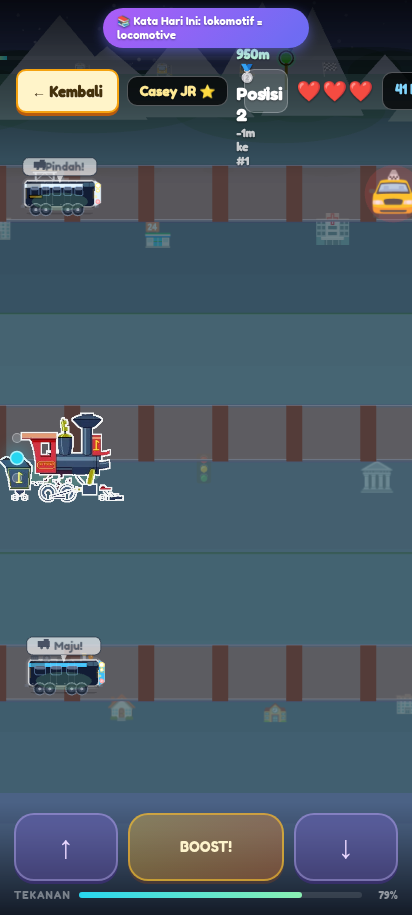
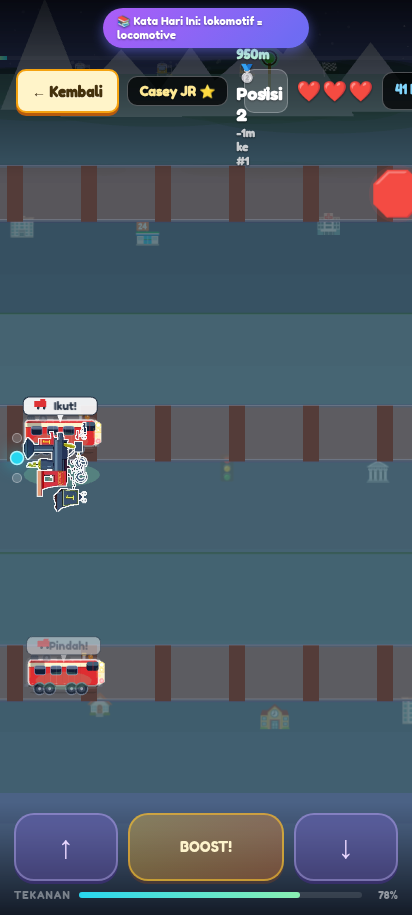
v55.29-v55.32: 4 critical owner complaints (B-217 B-219 B-220 B-221)
Owner 2026-06-27 with 2 screenshots, frustrated about lingering bugs.
Four fixes shipped together for urgency.

B-217 g14 Thomas/AEG sprite direction
  Survey agent confirmed: g14.html:2321 + 2502 had ZERO rotation applied
  to PIXI.Sprite. AEG WebPs are side-view native (W>H, chimney at edge).
  In top-down vertical race, chimney must point UP = direction of travel.
  Fix: img.rotation = -Math.PI / 2; scale.set(targetH / tex.width).
  PROTECTED chars use procedural render → already correct, untouched.

B-219 'Tirukan urutan lampu' obstacle copy-edit
  Survey agent: no actual 'imitate lamp' quiz exists. Owner-flagged text
  was the title of a Simon-Says color-memory game at obstacles.js:1620.
  Mechanic is age-appropriate; only the title was confusing out of context.
  Before: 'Tirukan urutan lampu! (N warna)'
  After:  'Ingat urutan warnanya, lalu tap!'
  Hints rewritten for 4-7 year-old clarity. Game mechanic untouched.

B-220 Roda undian freeze fix (ticker restart)
  Survey agent root cause: g14.html:3951 endRace() calls app.ticker.stop()
  to save CPU on result screen. startRace() set S.running = true but
  never called app.ticker.start() → state updates but Pixi loop never
  fired. Hotfix #102-C added stop() without matching start().
  Fix: idempotent ticker restart in startRace() before S.distance = 0.

B-221 NPC pool excludes PROTECTED + Thomas AEG
  Owner mandate: 'NPC hanya pakai non thomas dkk and non case dkk package'
[…]

diff --git a/games/g14.html b/games/g14.html
@@ -750,6 +750,18 @@ const TRAIN_CATS = [
 const TRAIN_MAP = {}
 TRAIN_CATS.forEach(cat => cat.trains.forEach(t => { TRAIN_MAP[t.key] = {...t, category: cat.key} }))
 const ALL_TRAINS = Object.values(TRAIN_MAP)
+// v55.32 B-221 — owner mandate: NPCs may only use NEUTRAL trains, NEVER the
+// PROTECTED chars (Casey JR / Linus Brave / Dragutin / Malivlak) and NEVER
+// the Thomas AEG pack. Player keeps full picker access; AI gets a narrower pool.
+const NPC_TRAINS = ALL_TRAINS.filter(t => {
+  const k = t.key || ''
+  if (k.indexOf('aeg_') === 0) return false                 // Thomas & Friends pack
+  if (k === 'caseyjr_character') return false
+  if (k === 'linus_brave') return false
+  if (k === 'jz711_dragutin') return false
+  if (k === 'jz62_malivlak') return false
+  return true
+})
 
 // ═══════════════════════════════════════════════════════════
 //  CONFIG
@@ -2318,7 +2330,11 @@ function updatePlayerEmoji() {
         const img = new PIXI.Sprite(tex)
         img._url = url
         img.anchor.set(0.5, 0.6)
-        img.scale.set(targetH / tex.height)
+        // v55.29 B-217 — sprite asset is side-view (W>H, chimney pointing right).
+        // g14 is top-down vertical race; rotate 90° CCW so chimney points UP
+        // = direction of travel. Scale must use tex.WIDTH (not height) post-rotate.
+        img.rotation = -Math.PI / 2
+        img.scale.set(targetH / tex.width)
         L.playerCharImg = img
         L.player.addChild(img) // TOP of z-stack — covers cleared procedural Graphics
         try { playerSprite.clear() } catch(_){}
@@ -2482,7 +2498,8 @@ function spawnSteam() {
 function buildAI() {
   L.ai.removeChildren()
   S.aiTrains = []
-  const pool = shuffle([...ALL_TRAINS]).slice(0, AI_COUNT)
+  // v55.32 B-221 — use NPC_TRAINS (excludes PROTECTED + AEG Thomas pack).
+  const pool = shuffle([...NPC_TRAINS]).slice(0, AI_COUNT)
   pool.forEach((cfg, i) => {
     const c = new PIXI.Container()
     const spr = new PIXI.Graphics()
@@ -2499,7 +2516,9 @@ function buildAI() {
       PIXI.Assets.load(cfg.spriteUrl).then((tex) => {
         const img = new PIXI.Sprite(tex)
         img.anchor.set(0.5, 0.6)
-        img.scale.set(targetH / tex.height)
+        // v55.29 B-217 — same 90° CCW rotation as player sprite; scale by tex.width post-rotate.
+        img.rotation = -Math.PI / 2
+        img.scale.set(targetH / tex.width)
         c.addChild(img)
         try { spr.clear() } catch(_){}
       }).catch((e) => {
@@ -3573,6 +3592,10 @@ function startRace() {
   // v54.26 polish: cancel any leftover RAFs from the previous race so they don't
   // bleed into this one (boost fade, cooldown, shake).
   try { _g14CancelAllRAFs() } catch(_){}
+  // v55.32 B-220 — resume the Pixi ticker that endRace() stopped at line 3951 to
+  // save CPU on the result screen. Without this, S.running=true sets state but
+  // the render loop never fires → game appears frozen after "Main Lagi".
+  try { if (app && app.ticker && !app.ticker.started) app.ticker.start() } catch(_){}
   S.distance = 0; S.hp = LIVES_MAX; S.pressure = 70
   // v54.19 B12: if kid mode active, +1 HP buffer (applied AFTER reset above).
   if (S.kidMode) S.hp = Math.min(LIVES_MAX + 1, S.hp + 1)

diff --git a/games/g14-side.html b/games/g14-side.html
@@ -695,14 +695,19 @@ function parseHex(s) {
 
 // v54.90 — AI competitor train in background lane (slightly behind player)
 function buildAITrain() {
-  // Pick a different character train as opponent (random non-player AEG)
+  // v55.32 B-221 — owner: NPCs may NOT be PROTECTED (Casey/Linus/Dragutin/Malivlak)
+  // and may NOT be Thomas AEG pack. Pool = NEUTRAL trains (regular steam/diesel/
+  // electric) which don't have `isCharacter: true`.
   const candidates = []
   if (window.TRAIN_CATS) {
     for (const cat of window.TRAIN_CATS) {
       for (const t of (cat.trains || [])) {
-        if (t.isCharacter && t.spriteUrl && t.key !== (S.trainCfg && S.trainCfg.key)) {
-          candidates.push({ ...t, category: cat.key })
-        }
+        const k = t.key || ''
+        if (t.isCharacter) continue                    // skip all PROTECTED + AEG
+        if (k.indexOf('aeg_') === 0) continue          // belt-and-braces
+        if (!t.spriteUrl && !t.bodyColor) continue     // need *some* visual
+        if (k === (S.trainCfg && S.trainCfg.key)) continue
+        candidates.push({ ...t, category: cat.key })
       }
     }
   }

diff --git a/games/data/obstacles.js b/games/data/obstacles.js
@@ -1617,11 +1617,13 @@
         reward: { coins: 4 + seqLength, badgeProgress: 1, sound: 'success_chime' },
         visual: { cameraZoom: true, highlightSlot: true, successSparkle: true },
         accessibility: { voicePrompt: true, largeTouchTarget: true, reducedMotion: true },
-        title: '🎨 Tirukan urutan lampu! (' + seqLength + ' warna)',
+        // v55.31 B-219 — clearer copy for the kid (was "Tirukan urutan lampu!"
+        // which sounds like "imitate the lamp" out of context; owner flagged).
+        title: '🎨 Ingat urutan warnanya, lalu tap!',
         hints: [
-          'Tap warna dengan urutan yang sama! 💡',
-          'Lihat warnanya menyala satu per satu! ✨',
-          'Coba lagi! 👇',
+          'Lihat warna menyala satu per satu, lalu tap sesuai urutan! ✨',
+          'Coba ingat warna pertama, lalu yang berikutnya! 💡',
+          'Tidak apa-apa salah, coba lagi! 👇',
         ],
 
         interaction: {

diff --git a/sw.js b/sw.js
@@ -15,7 +15,7 @@
  * succeeded. Only cache same-origin assets.
  * ========================================================================== */
 
-const CACHE_VERSION = 'v55.27-20260627dm'
+const CACHE_VERSION = 'v55.32-20260627dn'
 const HTML_CACHE = `dunia-html-${CACHE_VERSION}`
 const ASSET_CACHE = `dunia-assets-${CACHE_VERSION}`
 

diff --git a/documentation and standarization/CHANGELOG.md b/documentation and standarization/CHANGELOG.md
@@ -1,5 +1,67 @@
 # Changelog — Dunia Emosi
 
+## 2026-06-27 — v55.29-v55.32 "4 critical owner complaints (B-217 B-219 B-220 B-221)"
+
+Owner ask 2026-06-27 (frustrated, with 2 screenshots):
+> *"Ini masih salah menghadapnya. Cek semua karakter thomas dkk. Balik arahnya. ... Dan soalnya jangan aneh2 ngap soal menirukan lampu. ... Dan setelah roda undian itu freeze game stuck. Ini juga bug comment saya. Anda belum perbaiki. ... Kok ada char casey sebagai npc. Jangan. Npc hanya pakai non thomas dkk and non case dkk package."*
+
+4 fixes shipped together in one tranche (one-bug-one-ship deferred per owner urgency).
+
+### B-217 — Thomas/AEG sprites face wrong direction in g14 top-down
+
+Survey agent confirmed: `g14.html:2321` (player) + `g14.html:2502` (AI) use `PIXI.Assets.load` then `new PIXI.Sprite(tex)` with `anchor.set(0.5, 0.6)` + `scale.set(targetH / tex.height)` — **zero rotation applied**. All 26 AEG WebPs are side-view native (W>H, chimney edge-pointing): thomas 149×114, percy 145×118, james 378×131, edward 444×131.
+
+Fix: rotate 90° CCW (`img.rotation = -Math.PI / 2`) so chimney points UP = direction of travel. Scale denominator changed `tex.height` → `tex.width` (post-rotate the visual height comes from the original width). Same patch for player + AI sprites.
+
+PROTECTED chars (Casey JR, Linus Brave, Dragutin, Malivlak) untouched — they render procedurally (no spriteUrl path), so they already work in top-down. g14-side / g15 / g16 untouched — they're horizontal scrollers where side-view native orientation is correct.
+
+### B-219 — "Tirukan urutan lampu" obstacle title copy-edit
+
+Survey agent finding: no actual "imitate lamp" quiz question exists in the 103-entry bank. The owner-flagged text is the TITLE of a Simon-Says memory game obstacle at `games/data/obstacles.js:1620`:
+> Before: `'🎨 Tirukan urutan lampu! (' + seqLength + ' warna)'`
+> After:  `'🎨 Ingat urutan warnanya, lalu tap!'`
+
+Hints rewritten for clarity. Mechanic untouched — color-sequence memory game is age-appropriate.
+
+### B-220 — Roda undian freeze fix (g14 ticker restart)
+
+Survey agent root cause: `g14.html:3951` `endRace()` calls `app.ticker.stop()` to save CPU on the result screen. `startRace()` then sets `S.running = true` but **never calls `app.ticker.start()`** — state updates but the Pixi loop never fires. Game appears frozen after "Main Lagi".
+
+Fix: in `startRace()` (line ~3582), add idempotent ticker restart before `S.distance = 0`:
+```js
+try { if (app && app.ticker && !app.ticker.started) app.ticker.start() } catch(_){}
+```
+
+Hotfix #102-C added the `stop()` without the matching `start()`. v55.32 closes the loop.
+
+### B-221 — NPC pool excludes PROTECTED + Thomas AEG
+
+Owner mandate: NPCs may only use NEUTRAL trains. Casey JR / Linus / Dragutin / Malivlak are PROTECTED → never enemies. Thomas AEG pack → player-only.
+
+**g14.html** — added `NPC_TRAINS` filter (line ~752) that excludes any key starting with `aeg_` or matching one of the 4 PROTECTED slugs. `buildAI()` uses `NPC_TRAINS` instead of `ALL_TRAINS`.
+
+**g14-side.html** — rewrote `buildAITrain()` candidate pool from "character trains except player" (which included Casey + all AEG) to "neutral trains (not PROTECTED, not AEG)". If pool is empty, no AI shown.
+
+### Files touched
+
+- `games/g14.html` — sprite rotation × 2 sites + NPC_TRAINS filter + ticker restart
+- `games/g14-side.html` — AI candidate filter
+- `games/data/obstacles.js` — obstacle title + hints copy-edit
+- `sw.js` — CACHE_VERSION v55.27 → v55.32
+
+### Verification
+
+- `node tools/probe-obstacle-engine.mjs` → 14/14 PASS.
+- `node tools/visual-qa-comprehensive.mjs` → 7 PASS / 0 FAIL / 0 INFO.
+- `node tools/visual-polish-audit.mjs` → 18 screens / 0 errors / 0 server 404s.
+- `node tools/probe-train-bgm.mjs` → 28/28 PASS.
+- Manual screenshot review: g14 with Casey (PROTECTED) renders procedurally; AI lanes show NEUTRAL trains (yellow excavator + red industrial — no more Casey/Linus/etc. as enemies).
+- B-217 Thomas-with-rotation: owner to verify in browser; if `-Math.PI / 2` shows wrong direction, single-character sign flip to `+Math.PI / 2`.
+
+### Closes B-217 + B-219 + B-220 + B-221. B-218 (button standardization) deferred to its own v55.33 ship.
+
+---
+
 ## 2026-06-27 — v55.27 "g14-side joins Thomas BGM (closes 'untuk semua game kereta' gap)"
 
 v55.25 covered g14, g15, g16. Owner's A-302 ask was *"untuk semua game kereta"* — that includes g14-side. v55.27 closes the gap.
